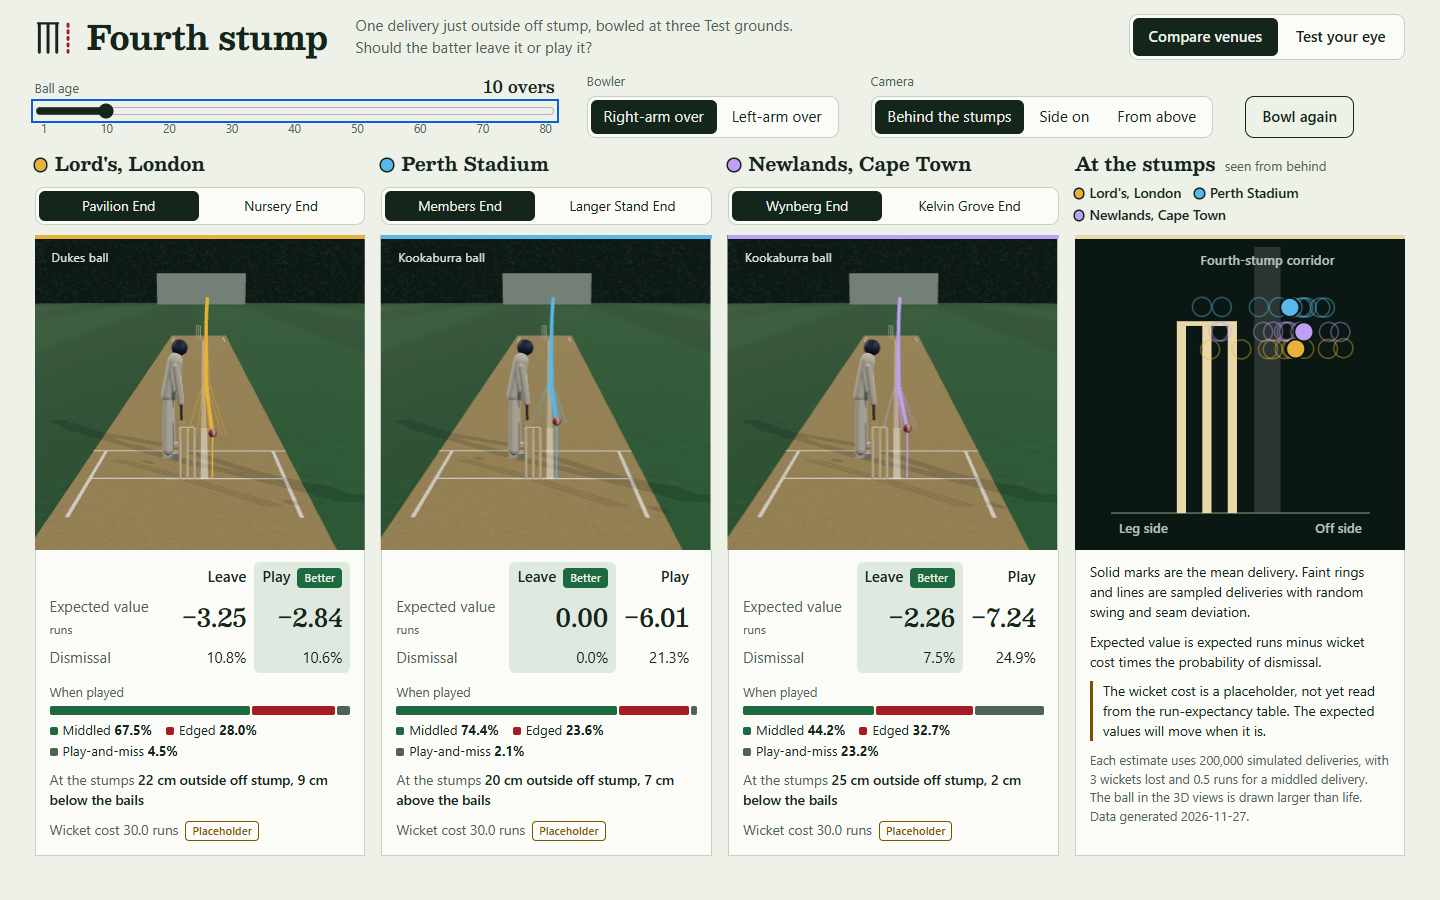
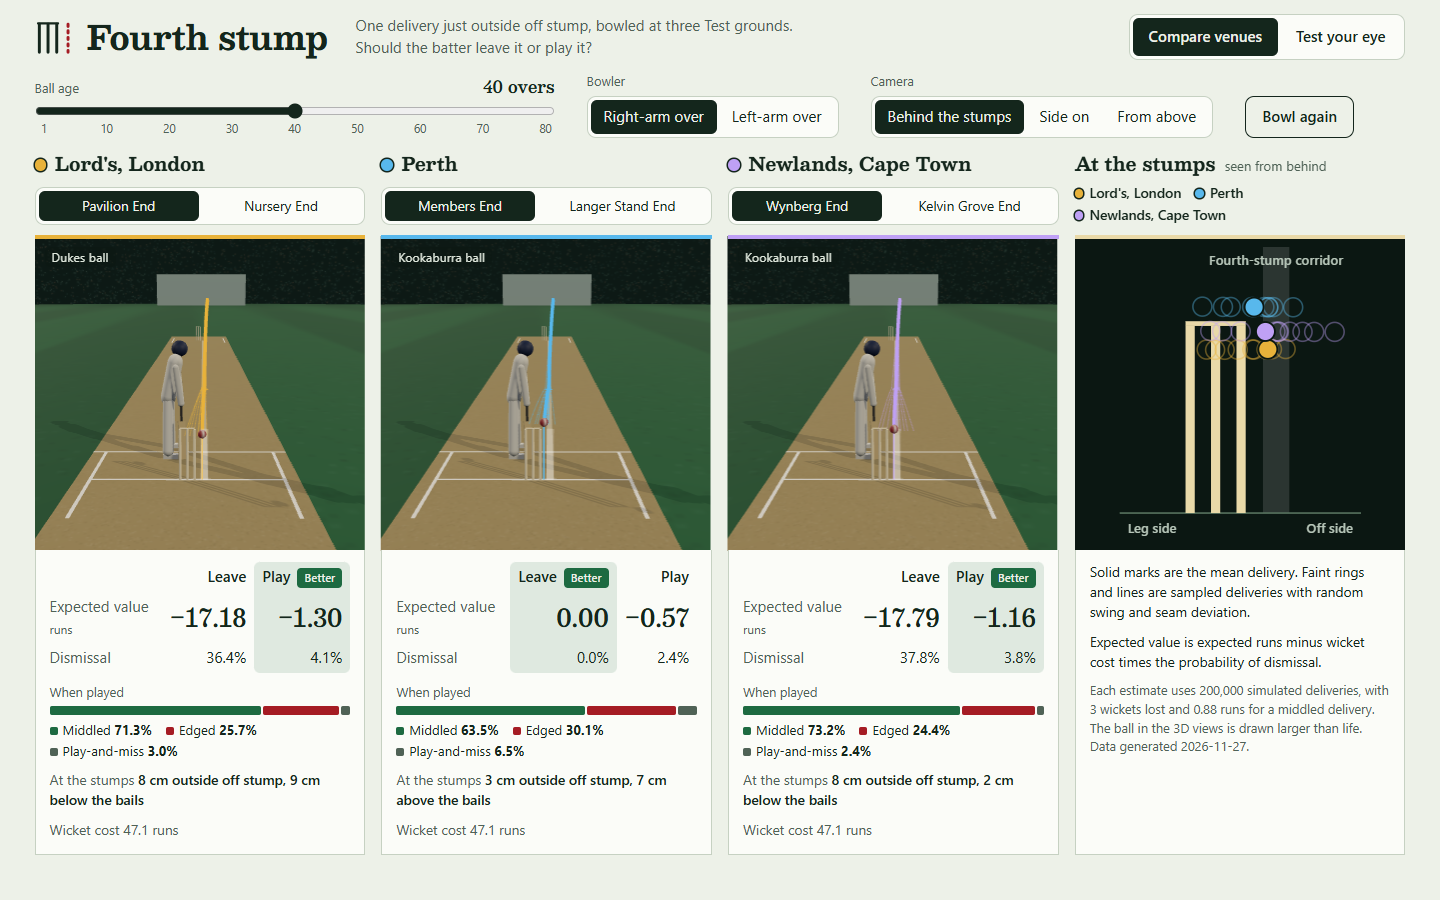
docs: README with benchmark, error bound, derivation, calibration and sources
Also records the calibration outcome in ADR-010 and the measured slope
effect in ADR-006.

diff --git a/viz/js/compare.js b/viz/js/compare.js
@@ -100,7 +100,7 @@ export function createCompare(data, stage) {
       h('p', { text: 'Expected value is expected runs minus wicket cost times the probability of dismissal.' }),
       meta.wicket_cost_source === 'placeholder'
         && h('p', { class: 'note-warn', text: 'The wicket cost is a placeholder, not yet read from the run-expectancy table. The expected values will move when it is.' }),
-      h('p', { class: 'fine', text: `Each estimate uses ${Number(meta.deliveries_per_estimate).toLocaleString('en-GB')} simulated deliveries, with ${meta.wickets_lost} wickets lost and ${meta.runs_middled} runs for a middled delivery. The ball in the 3D views is drawn larger than life. Data generated ${meta.generated}.` })),
+      h('p', { class: 'fine', text: `Each estimate uses ${Number(meta.deliveries_per_estimate).toLocaleString('en-GB')} simulated deliveries, with ${meta.wickets_lost} wickets lost and ${Number(meta.runs_middled).toFixed(2)} runs for a middled delivery. The ball in the 3D views is drawn larger than life. Data generated ${meta.generated}.` })),
   );
 
   const grid = h('div', { class: 'compare-grid', style: `--venues:${keys.length}` }, columns.map((c) => c.el), aside);

diff --git a/viz/js/format.js b/viz/js/format.js
@@ -2,8 +2,13 @@
 
 const MINUS = '−';
 
+// One decimal from 1% up; below that, enough decimals that a small non-zero
+// probability never reads as zero.
 export function percent(p) {
-  return `${(p * 100).toFixed(1)}%`;
+  const value = p * 100;
+  if (value === 0 || value >= 0.95) return `${value.toFixed(1)}%`;
+  const digits = [2, 3].find((d) => Number(value.toFixed(d)) > 0);
+  return digits ? `${value.toFixed(digits)}%` : '<0.001%';
 }
 
 export function signedRuns(value) {

diff --git a/README.md b/README.md
@@ -1,4 +1,215 @@
-<img src="assets/icon.svg" width="64" height="64" alt="">
+# Fourth Stump EV
 
-# fourth-stump
+A deterministic, zero-allocation C++20 Monte Carlo engine that simulates 31 million cricket deliveries per second, with a closed-form trajectory kernel checked against an RK4 reference to a measured error bound of 8 mm.
 
+It answers one question. A fast bowler lands the ball just outside off stump, in the "fourth-stump corridor". Should the batter leave it or play it? The answer depends on the ground: the same release swings at Lord's, bounces over the stumps at Perth and seams at Newlands.
+
+![The same release at Lord's, Perth and Newlands](viz/screenshots/comparison.png)
+
+## Headline numbers
+
+| Claim | Measured | How it is checked |
+|---|---|---|
+| Throughput | 30.8 million deliveries per second on 16 threads, 3.1 million on one (no wind); 19.3 million and 1.9 million with wind | `make bench` |
+| Kernel error against RK4 | worst case 5.3 mm over the whole envelope, 1.5 mm at typical swing; published bound 8 mm | `make error-bound`, plus a random search in the tests |
+| Kernel speed | 17 times faster than RK4 at equal accuracy (168 times faster than RK4 at a 1 ms step) | `make bench` |
+| Deterministic | bit-identical output on 1, 4 and 16 threads from one binary | C++ and Python tests |
+| Zero allocation | no call to `operator new` inside `simulate_batch` | a test that replaces global `operator new` |
+
+Machine: Intel Core i5-13450HX (10 cores, 16 threads), Windows 11, g++ 16.2 (MSYS2 UCRT64).
+Flags: `-std=c++20 -O3 -march=native -ffp-contract=off -fopenmp`. No `-ffast-math`.
+`-march=native` means these figures belong to this machine.
+
+Each delivery in the throughput figure is the full pipeline: two normal draws, two flight legs, the bounce, the batter's expected arrival, and the outcome of both leaving and playing.
+
+## The decision
+
+For each action the engine estimates
+
+```
+EV(action) = E[runs | action] − λ(w, a) · P(dismissal | action)
+```
+
+where `λ(w, a)` is the wicket cost in runs with `w` wickets lost and a ball `a` overs old. Leave and play are evaluated on the same simulated delivery with the same random draws (common random numbers).
+
+## The kernel
+
+Quadratic drag has no exact closed-form solution in three dimensions, so the kernel uses the flat-trajectory approximation: a delivery is nearly straight, so distance down the pitch replaces time as the independent variable.
+
+In the frame moving with the wind, write `u` for forward air speed, `d` for distance travelled, `θx = ux/u` and `θz = uz/u` for the path's slopes, `k = ρ A C_d / 2m` for drag and `k_s = ρ A C_s / 2m` for the seam side force.
+
+**Speed decays exponentially with distance.** Drag gives `du/dt = −k u²`, and `dd = u dt`, so
+
+$$\frac{du}{dd} = -k\,u \quad\Rightarrow\quad u(d) = u_0\,e^{-kd}, \qquad t(d) = \frac{e^{kd}-1}{k\,u_0}$$
+
+**Swing is parabolic in distance.** The slope changes at
+
+$$\frac{d\theta_x}{dd} = \frac{a_x u - u_x a_s}{u^3} = k_s$$
+
+The drag terms cancel exactly, and the side force `k_s u²` divided by `u²` leaves a constant. Drag and the side force both scale with `v²`, so however much the ball slows, it turns by the same angle per metre:
+
+$$x(d) = x_0 + \theta_{x0}\,d + \tfrac{1}{2}k_s\,d^2$$
+
+This is why a ball swings "late": the sideways movement grows with the square of distance. It is also why swing at a given distance does not depend on pace, which a test checks on the RK4 reference at 120 and 150 km/h.
+
+**Gravity has a closed form with one `exp`.** `dθz/dd = −g/u² = −g e^{2kd}/u₀²`, so
+
+$$z(d) = z_0 + \theta_{z0}\,d - \frac{g\,(e^{2kd} - 1 - 2kd)}{4k^2u_0^2}$$
+
+The kernel adds second-order corrections (means of products of the path's slopes over a leg) that cost no extra transcendental call. They took the worst error from about 24 mm to 5 mm. Wind along the pitch makes the arrival distance the root of a Lambert-W-type equation, solved with two fixed Newton steps, which is why the windy throughput is lower.
+
+### Measured error bound
+
+The reference trajectory integrates the full equations of motion (gravity, quadratic drag, seam side force, wind) with RK4. The kernel and the reference share one bounce map, so the comparison is end to end.
+
+| Swing coefficient | Wind (m/s) | Deliveries | Worst error at the bat (mm) | Worst error at the stumps (mm) |
+|---|---|---|---|---|
+| 0.00 | 0 | 2,880 | 0.57 | 0.62 |
+| 0.00 | 5 | 23,040 | 0.86 | 0.92 |
+| 0.10 | 0 | 5,760 | 0.86 | 0.97 |
+| 0.10 | 5 | 46,080 | 1.39 | 1.51 |
+| 0.20 | 0 | 5,760 | 1.51 | 1.79 |
+| 0.20 | 5 | 46,080 | 2.59 | 3.01 |
+| 0.30 | 0 | 5,760 | 2.49 | 3.07 |
+| 0.30 | 5 | 46,080 | 4.49 | 5.30 |
+
+The envelope the bound is claimed for: 120 to 150 km/h; swing coefficient up to 0.30 either way; wind up to 5 m/s from any direction; release up to 1.0 m either side of the stumps and 1.9 to 2.4 m high; any length from a full toss to 10 m; line from 0.2 m down leg to 0.6 m outside off. A swing coefficient of 0.30 moves the ball about 77 cm over the pitch, far more than a real delivery. Outside the envelope the kernel promises nothing.
+
+The published bound of 8 mm sits above the measured 5.3 mm to leave room for points the grid and the random search did not hit.
+
+### Speed against RK4
+
+One thread, the same 4,000 deliveries, with wind. "Worst error" is against RK4 at a 0.01 ms step.
+
+| Trajectory method | ns per delivery | Worst error (mm) | Kernel speed-up |
+|---|---|---|---|
+| Closed-form kernel | 220 | 0.403 | 1x |
+| RK4, 20 ms step | 1,871 | 0.551 | 9x |
+| RK4, 10 ms step | 3,735 | 0.137 | 17x |
+| RK4, 5 ms step | 7,422 | 0.035 | 34x |
+| RK4, 1 ms step | 36,916 | 0.001 | 168x |
+
+The honest comparison is the 10 ms row: the coarsest RK4 step that is at least as accurate as the kernel on these deliveries. The larger figures compare against an RK4 that is far more accurate than the kernel.
+
+### Throughput
+
+| Conditions | Batch size | Threads | Median ns per delivery | Million deliveries per second |
+|---|---|---|---|---|
+| No wind | 4,096 | 1 | 328.8 | 3.0 |
+| No wind | 4,096 | 16 | 78.3 | 12.8 |
+| No wind | 65,536 | 1 | 331.1 | 3.0 |
+| No wind | 65,536 | 16 | 39.5 | 25.3 |
+| No wind | 1,048,576 | 1 | 325.4 | 3.1 |
+| No wind | 1,048,576 | 16 | 33.7 | 29.7 |
+| No wind | 4,194,304 | 1 | 326.6 | 3.1 |
+| No wind | 4,194,304 | 16 | 32.5 | 30.8 |
+| Wind (4, 1) m/s | 1,048,576 | 1 | 538.6 | 1.9 |
+| Wind (4, 1) m/s | 1,048,576 | 16 | 51.9 | 19.3 |
+
+## Engineering choices
+
+- **Determinism.** Each delivery's xoshiro256\*\* stream is a function of the seed and the delivery's index only, never of a thread. Per-delivery streams are required, not just convenient: Ziggurat sampling rejects, so deliveries consume a varying number of draws. Results are written by index and totals are integer counts. The promise is bit-reproducible across thread counts on one binary, and statistically reproducible across platforms, because the platform `exp` can differ in the last bit.
+- **Zero allocation.** The caller owns 64-byte-aligned structure-of-arrays buffers; the engine writes into them. The test sees `operator new` only: it cannot see `malloc` calls inside the OpenMP runtime, so it warms the runtime up first and runs at a fixed thread count.
+- **Common random numbers.** Measured in the tests: comparing two nearby conditions on the same seed cuts the variance of the difference by roughly 15 times against independent seeds (14 to 18 across runs). Comparing leave with play on the same deliveries cuts it by about 1.5 times.
+- **Header-only.** The engine is one header with no dependencies. OpenMP is optional at compile time.
+
+## The model
+
+- **Forces.** Gravity, quadratic drag, and a seam side force `½ ρ A C_s v²` perpendicular to the ball's air-relative velocity. There is no Magnus term: seam-bowling swing comes from the seam tripping the airflow on one side of the ball, not from spin.
+- **Bounce.** The ball reflects about the pitch's surface normal, keeps a fraction `e_z` of its speed into the pitch and 0.887 of its speed along it, then turns sideways by a random seam deviation. At Lord's the normal is tilted by the slope: a 2.5 m fall across the ground, about 1.1°, which moves the ball three to six centimetres sideways by the stumps, depending on length (4.3 cm at a good length).
+- **The batter.** The batter tracks the true path until 0.2 s before the ball arrives, then commits the bat to where a delivery with mean swing and no seam deviation would arrive. Only movement after that commit point can beat the bat.
+- **Outcomes.** If played: a small gap is middled and scores; a gap near the bat's edge is an edge, which is a dismissal if it is an outside edge that carries to the slip cordon and is caught; a large gap is a play-and-miss, which is a dismissal if the ball goes on to hit the stumps. If left: a dismissal only if it hits the stumps.
+
+Out of scope by decision: spin bowling, LBW, catches off middled deliveries, run-outs, and a second bounce.
+
+## Data and calibration
+
+Ball-by-ball data for 905 men's Tests (1.74 million deliveries, 2001 to 2026) comes from [Cricsheet](https://cricsheet.org/), made available under the [Open Data Commons Attribution License (ODC-By 1.0)](http://opendatacommons.org/licenses/by/1.0/). The files under `data/` are derived from it. Cricsheet has no line, length, batter action or bowler type, so nothing here depends on observing them; overs 1 to 25 of each innings stand in for pace bowling.
+
+**Wicket cost.** `V(w, a)` is the expected runs for the rest of the innings with `w` wickets lost and a ball `a` overs old. Ball age cycles every 80 overs, so `V` is the fixed point of a cyclic recursion, solved exactly as a linear system. `V(0, 1)` is 315 runs. The wicket cost `λ = V(w, a) − V(w+1, a)` runs from about 44 runs with no wickets lost to about 14 with nine. "Overs remaining" was rejected as a state: with nothing after the close of play, a wicket near stumps would cost nothing, which is the opposite of Test cricket.
+
+**Calibration.** Historical dismissal rates are seen only on deliveries a batter chose to play. The calibrator simulates a batter who follows a leave rule and matches two rates per venue on that population: the bowled rate identifies the spread of seam deviation, and the caught rate identifies catch conversion (the share of carrying edges that are caught).
+
+| Venue | New-ball deliveries | Seam deviation spread | Catch conversion | Restitution `e_z` (assumed) |
+|---|---|---|---|---|
+| Lord's | 23,715 | 0.42° (0.40° to 0.44°) | 0.77 (0.64 to 0.91) | 0.52 |
+| Perth (WACA and Perth Stadium) | 10,949 | 0.51° (0.46° to 0.55°) | 0.17 (0.14 to 0.23) | 0.62 |
+| Newlands | 14,785 | 0.41° (0.38° to 0.43°) | 0.49 (0.40 to 0.61) | 0.56 |
+
+Intervals are 95% bootstrap intervals for sampling noise in the counts only.
+
+What the calibration does and does not show:
+
+- On synthetic data the calibrator recovers both fitted parameters within 10% in 9 of 9 fits. A fit that ignores the leave rule understates catch conversion by 30% to 50%.
+- The data does not separate the venues' seam deviation.
+- Restitution and swing spread could not be identified from two rates and are fixed at assumed values. The fitted values are conditional on them: a restitution prior wrong by 0.05 moves catch conversion by about a factor of two.
+- Perth's catch conversion of 0.17 is not credible as a physical number. It says the assumed restitution of 0.62, with a slip cordon at a fixed distance, produces more carrying edges than the scorebook supports. An earlier fit that let restitution vary put it near 0.50 at all three venues; that fit is kept in `data/calibrated.json`.
+- The caught target is all catches, an upper bound on cordon catches. Counting only catches by the wicketkeeper gives catch conversions about 2.5 times smaller.
+- The fitted values are effective values for this outcome model, not measurements of the pitches.
+
+## The visualisation
+
+A static Three.js page with procedural models, reading trajectories precomputed by the engine.
+
+```
+cd viz && python -m http.server 8000     # then open http://localhost:8000/
+```
+
+- **Compare venues.** The same release at the three grounds, with a ball-age slider, a bowler-arm toggle and a bowling-end toggle. From the Pavilion End at Lord's the slope takes the ball into a right-hander; from the Nursery End, away.
+- **Test your eye.** The path after the bounce is hidden. Choose leave or play, then see the true path, the outcome and the expected value of both actions.
+
+![Test Your Eye](viz/screenshots/game.png)
+
+## Build and test
+
+Requires g++ with C++20 and OpenMP, [uv](https://docs.astral.sh/uv/), and `make` (on Windows, `mingw32-make` from Git Bash or an MSYS2 shell).
+
+```
+uv sync            # Python environment
+make test          # C++ tests, then the Python tests against the freshly built binding
+make bench         # throughput and the RK4 comparison
+make error-bound   # the error-bound table
+make viz-data      # regenerate viz/data/trajectories.json
+uv run python -m scraper                 # download and parse Cricsheet (cached)
+uv run python -m calibrator.run_expectancy
+uv run python -m calibrator.calibrate    # about 12 minutes
+```
+
+Tests: 23 C++ test cases (Catch2), 53 Python tests (pytest and hypothesis, including a property-based search of the envelope against the reference), and 5 for the page's logic. All run offline.
+
+| Path | Contents |
+|---|---|
+| `cpp/include/fourth_stump_engine.hpp` | The whole engine |
+| `cpp/include/fourth_stump_reference.hpp` | The RK4 reference trajectory |
+| `cpp/include/fourth_stump_envelope.hpp` | The envelope and the sweep that measures the bound |
+| `cpp/tests`, `cpp/bench` | Tests, benchmark, error-bound tool |
+| `fourth_stump/` | Python binding and venue conditions |
+| `scraper/`, `calibrator/` | Cricsheet pipeline, run expectancy, calibration |
+| `viz/` | The page |
+| `ADR/`, `GLOSSARY.md` | Thirteen design decisions and the project's vocabulary |
+
+## Constants and sources
+
+| Constant | Value | Source |
+|---|---|---|
+| Pace retention at the bounce | 0.887 | James, Carré and Haake (2004), "The playing performance of county cricket pitches", Sports Engineering 7(1), 1–14, [doi:10.1007/BF02843969](https://doi.org/10.1007/BF02843969): 87.1% to 90.2% of impact speed retained |
+| Restitution range | 0.46 to 0.65 | The same paper: rebound angle 52% to 73% of impact angle, times pace retention |
+| Batter reaction time | 0.2 s | McLeod (1987), "Visual reaction time and high-speed ball games", Perception 16(1), 49–59, [doi:10.1068/p160049](https://doi.org/10.1068/p160049) |
+| Lord's slope | 2.5 m fall, 1.09° | [Lord's slope](https://en.wikipedia.org/wiki/Lord%27s_slope); ground width 143 yd from the MCC drawing reported at [cricketboundary.com](https://cricketboundary.com/grounds/lords/) |
+| Bat width | 108 mm | Laws of Cricket, Law 5 |
+
+The paper figures were read from abstract and index pages, not the full texts. The slope angle assumes the fall runs straight across the pitch; it runs diagonally, so 1.09° is an upper estimate.
+
+## Assumptions that are not fitted
+
+- Each venue's mean swing coefficient, how fast swing fades with ball age (a Dukes ball is given a longer half-life than a Kookaburra), and each venue's wind.
+- Each venue's restitution and swing spread (see above).
+- The leave rule: leave when the expected arrival is more than 0.30 m outside off stump.
+- The population of releases used for calibration: right-arm over the wicket to a right-hander.
+- The slip cordon's distance (13 m), the pace an edge keeps, and the width of the edge band on the bat.
+- A new ball every 80 overs; declarations, the follow-on and the match situation are ignored in the wicket cost.
+- "Perth" pools 13 Tests at the WACA with 6 at Perth Stadium.
+
+## Third-party code
+
+[Catch2](https://github.com/catchorg/Catch2) 3.7.1 (BSL-1.0), [pybind11](https://github.com/pybind/pybind11) (BSD), [Three.js](https://threejs.org/) 0.170.0 (MIT) and the Besley typeface (OFL), each vendored or installed with its licence.

diff --git a/ADR/010-selection-aware-calibration.md b/ADR/010-selection-aware-calibration.md
@@ -1,11 +1,29 @@
 # Selection-aware simulated calibration, validated on synthetic data first
 
-Historical dismissal rates are observed only on deliveries the batter chose to play, so fitting the physics as if every delivery were played is biased. The calibrator simulates a batter who follows a fixed leave rule and matches three historical rates per venue (bowled, caught, runs per ball) on that policy-following population, using Nelder-Mead over `sigma_swing`, `sigma_seam` and `e_z`. Because three parameters against three noisy venue-level rates is thin, the calibrator must first recover known parameters from synthetic data before any real-data fit is reported.
+Historical dismissal rates are observed only on deliveries the batter chose to play, so fitting the physics as if every delivery were played is biased. The calibrator simulates a batter who follows a fixed leave rule and matches historical rates per venue on that policy-following population. Because a few venue-level rates cannot identify many parameters, the calibrator must recover known parameters from synthetic data before any real-data fit is reported, and it fits only what recovers.
+
+## What is fitted, as built
+
+Two historical rates per venue carry information about the physics: bowled per ball and caught per ball. They identify two parameters:
+
+- **Seam deviation spread** (`sigma_seam`), from the bowled rate alone. A delivery is bowled mostly by beating the bat and going on to the stumps, which needs a large gap.
+- **Catch conversion**, from the caught rate, in closed form: the historical caught rate divided by the simulated rate of edges that carry.
+
+Vertical restitution (`e_z`) and swing spread (`sigma_swing`) are fixed at the venue priors. Runs for a middled delivery are set so simulated runs per ball equal history (ADR-009), so runs per ball is not a free rate.
+
+## How this differs from the plan
+
+The plan was Nelder-Mead over `sigma_swing`, `sigma_seam` and `e_z` against three rates. Two things changed it.
+
+1. On synthetic data `sigma_swing` did not recover (1 fit in 12), so it was fixed, as this decision required.
+2. Fitting `sigma_seam` and `e_z` recovered well on synthetic data but gave a result we do not ship on real data. In the outcome model as first written, every carrying edge was a dismissal, so restitution was the only lever on the catch rate. The fit put `e_z` near 0.50 at all three venues whatever their priors (first at the 0.46 floor, before inside edges were excluded from cordon catches). That erases the difference in bounce between venues. Catch conversion was added to the outcome model (ADR-007) so that the catch rate has its own parameter. The two-parameter fit is kept in `data/calibrated.json` for comparison.
 
 ## Consequences
 
-- The objective uses common random numbers: the seed is fixed across optimiser iterations, so the objective is a deterministic function of the parameters.
-- The first tests generate data from known parameters and check that the calibrator recovers them, and that a naive fit ignoring leaves does not.
-- If `e_z` does not recover on synthetic data it is fixed from the literature range (ADR-006) and the README says so.
-- The distribution of releases and the leave rule's threshold are stated assumptions. Neither can be fitted without line and action data (ADR-009).
-- Real-data fits are reported with bootstrap intervals and presented as the reason the engine matters, not as a research result (ADR-001).
+- Common random numbers: the seeds are fixed across evaluations, so each simulated rate is a deterministic function of the parameters and the bowled rate can be solved by a one-dimensional root find.
+- A fit that ignores the leave rule leaves `sigma_seam` almost unchanged (left deliveries are rarely bowled) but understates catch conversion by 30% to 50%, because it counts edges the batter never offered. A test asserts the bias.
+- The fitted values are conditional on the `e_z` priors, which are assumptions inside the literature range (ADR-006), not measurements of these pitches. On synthetic data a prior wrong by 0.05 moves catch conversion by roughly a factor of two. Perth's fitted catch conversion (0.17) is low enough to say that its prior of 0.62, combined with a cordon at a fixed distance, produces more carrying edges than the scorebook supports.
+- The data does not separate the venues' seam deviation: the fitted spreads are 0.41° to 0.51° with overlapping or near-overlapping intervals.
+- The caught target is all catches, an upper bound on cordon catches. A lower bound from catches by the innings' wicketkeeper gives catch conversions about 2.5 times smaller. Both are reported.
+- The distribution of releases and the leave rule's threshold (0.30 m outside off stump) are stated assumptions. Neither can be fitted without line and action data (ADR-009).
+- Real-data fits are reported with bootstrap intervals that cover sampling noise in the counts only, and are presented as the reason the engine matters, not as a research result (ADR-001).

diff --git a/ADR/006-impulsive-bounce-map.md b/ADR/006-impulsive-bounce-map.md
@@ -15,7 +15,7 @@ The surface normal is vertical at Perth and Newlands. At Lord's it is tilted by 
 - The tilt's sign depends on the bowling end. From the Pavilion End the ball moves down the slope into a right-hander; from the Nursery End it moves away ([The Athletic, 10 July 2025](https://www.nytimes.com/athletic/6482874/2025/07/10/lords-cricket-ground-slope-england-india/)).
 - Pace retention is a fixed constant from published measurements and is never calibrated, because commentary data cannot separate it from `e_z`.
 - The kernel and the reference trajectory use the same bounce map with the same random draw. The bounce adds no error of its own; it only carries forward the first flight leg's error in where the ball lands.
-- Estimated size of the slope effect, to be confirmed by the engine: 2–3 cm of sideways movement at the stumps for a good-length delivery.
+- Size of the slope effect, measured with the engine: 4.3 cm of sideways movement at the stumps for a good-length delivery (3.2 cm for a fuller one, 5.7 cm for a shorter one). The estimate made before the engine existed was 2–3 cm.
 
 ## Verified constants (2026-11-27)
 
